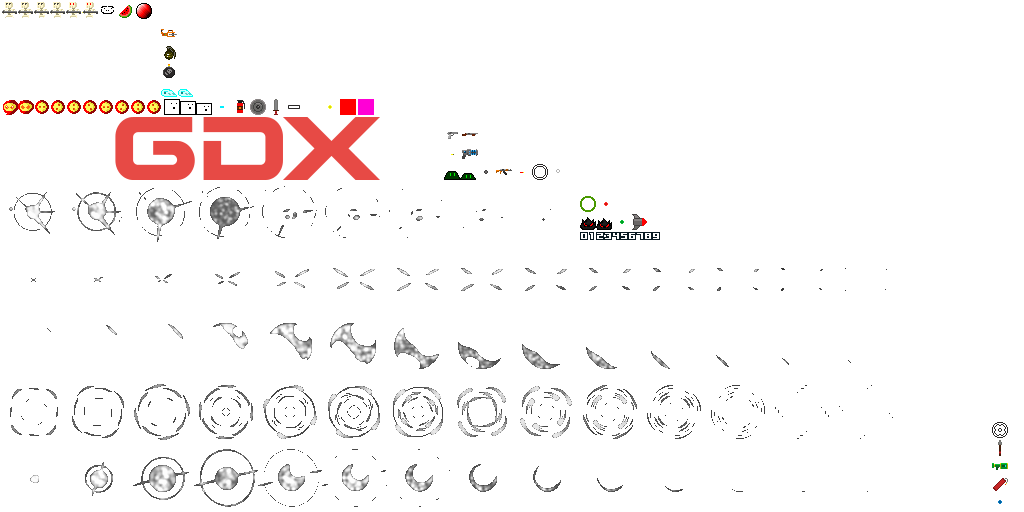
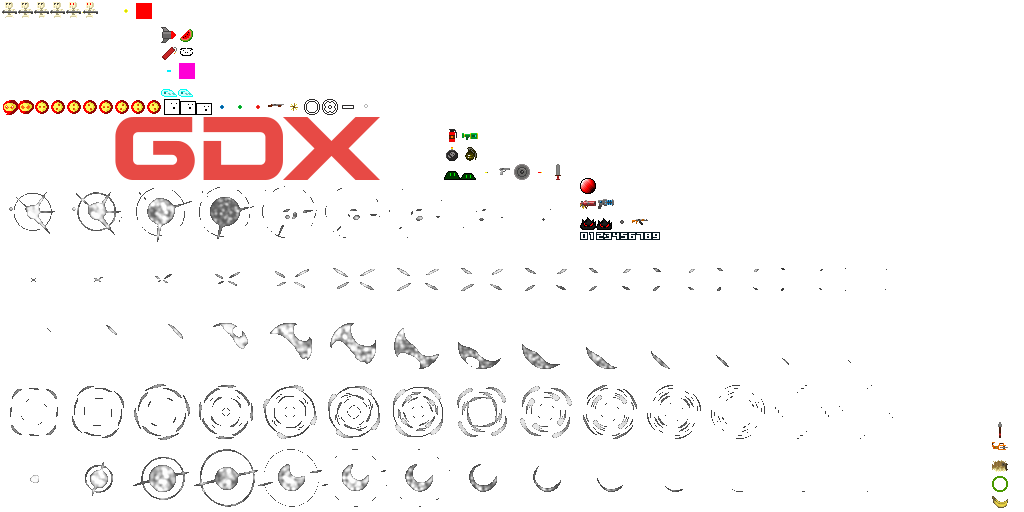
Nuevas armas boomerang (banana) y de veneno (pez globo). Ya funciona el veneno.

diff --git a/core/src/main/java/com/tikisadventure/combat/StatusManager.java b/core/src/main/java/com/tikisadventure/combat/StatusManager.java
@@ -9,11 +9,25 @@ public class StatusManager {
 
     public void update(Entity target, float delta) {
         for (int i = activeStatuses.size - 1; i >= 0; i--) {
+            // Por seguridad, si algo vació la lista de golpe, saltamos
+            if (i >= activeStatuses.size) continue;
+
             StatusEffect effect = activeStatuses.get(i);
             effect.tick(target, delta);
+
+            // --- PROTECCIÓN CONTRA CRASHEOS ---
+            // Si el enemigo ha muerto por culpa del daño que le acaba de hacer el tick(),
+            // rompemos el bucle inmediatamente porque la entidad ya no es válida.
+            if (!target.isAlive()) {
+                break;
+            }
+
             if (effect.isExpired()) {
                 effect.onRemove(target);
-                activeStatuses.removeIndex(i);
+                // Segunda capa de seguridad al borrar
+                if (i < activeStatuses.size) {
+                    activeStatuses.removeIndex(i);
+                }
             }
         }
     }
@@ -21,11 +35,27 @@ public class StatusManager {
     public void addStatus(StatusEffect effect, Entity target) {
         for (StatusEffect existing : activeStatuses) {
             if (existing.getType() == effect.getType()) {
+                existing.refreshDuration();
                 return;
             }
         }
+
         effect.onApply(target);
         activeStatuses.add(effect);
+    }
+
+    public boolean hasStatus(StatusType type) {
+        for (StatusEffect effect : activeStatuses) {
+            if (effect.getType() == type) return true;
+        }
+        return false;
+    }
+
+    public StatusEffect getStatus(StatusType type) {
+        for (StatusEffect effect : activeStatuses) {
+            if (effect.getType() == type) return effect;
+        }
+        return null;
     }
 
     public void dispose() {

diff --git a/core/src/main/java/com/tikisadventure/combat/weapons/Weapon.java b/core/src/main/java/com/tikisadventure/combat/weapons/Weapon.java
@@ -89,6 +89,7 @@ public class Weapon {
     protected float returnDelayTimer = 0f;
 
     public int activeBoomerangs = 0;
+    protected boolean fixedSpread = false;
 
     // Añade sus getters y setters
     public int getTier() {
@@ -144,6 +145,7 @@ public class Weapon {
         this.pivotX = x;
         this.pivotY = y;
     }
+    public void setFixedSpread(boolean fixedSpread) { this.fixedSpread = fixedSpread; }
 
     // Getters
     public float getDamage() { return damage; }
@@ -362,9 +364,16 @@ public class Weapon {
         } else {
             for (int i = 0; i < projectileCount; i++) {
                 float angle = baseAngle;
+
                 if (projectileCount > 1) {
-                    angle += MathUtils.random(-spread / 2f, spread / 2f);
+                    if (this.fixedSpread) {
+                        float spreadStep = spread / (projectileCount - 1);
+                        angle += -(spread / 2f) + (i * spreadStep);
+                    } else {
+                        angle += MathUtils.random(-spread / 2f, spread / 2f);
+                    }
                 }
+
                 if (imprecision > 0) {
                     angle += MathUtils.random(-imprecision, imprecision);
                 }
@@ -395,7 +404,9 @@ public class Weapon {
     }
 
     public void render(Batch batch) {
+
         if (sprite == null) return;
+        if (activeBoomerangs > 0) return;
 
         float width = 1.2f;
         float height = 1.2f;

diff --git a/core/src/main/java/com/tikisadventure/combat/statuses/PoisonStatus.java b/core/src/main/java/com/tikisadventure/combat/statuses/PoisonStatus.java
@@ -29,7 +29,19 @@ public class PoisonStatus implements StatusEffect {
         tickTimer += delta;
 
         if (tickTimer >= interval) {
-            target.receiveDamage(damagePerTick, false, DamageType.POISON);
+            float finalDamage = damagePerTick;
+
+            // --- LÓGICA DE EJECUCIÓN (Más daño cuanta menos vida) ---
+            if (target.getHealthComponent() != null && target.getHealthComponent().maxHealth > 0) {
+                float hpPercent = target.getHealthComponent().currentHealth / target.getHealthComponent().maxHealth;
+
+                // Si la vida está al 100% (1.0), multiplier es 1x
+                // Si la vida está al 10% (0.1), multiplier es 1.9x
+                float executionMultiplier = 1.0f + (1.0f - hpPercent);
+                finalDamage *= executionMultiplier;
+            }
+
+            target.receiveDamage(finalDamage, false, DamageType.POISON);
             tickTimer = 0;
         }
     }
@@ -55,6 +67,12 @@ public class PoisonStatus implements StatusEffect {
     @Override
     public StatusType getType() {
         return StatusType.POISONED;
+    }
+
+    @Override
+    public void refreshDuration() {
+        this.elapsedTime = 0; // Reinicia el tiempo total del veneno
+        this.tickTimer = 0;   // Reinicia el contador del siguiente tic de daño
     }
 
     @Override

diff --git a/core/src/main/java/com/tikisadventure/combat/weapons/WeaponFactory.java b/core/src/main/java/com/tikisadventure/combat/weapons/WeaponFactory.java
@@ -189,6 +189,7 @@ public class WeaponFactory {
         weapon.setImpactKnockback(weaponJson.getFloat("impactKnockback", 0f));
         weapon.setProjectileCount(weaponJson.getInt("count", 1));
         weapon.setSpread(weaponJson.getFloat("spread", 0.0f));
+        weapon.setFixedSpread(weaponJson.getBoolean("fixedSpread", false));
         weapon.setSpreadDelay(weaponJson.getFloat("spreadDelay", 0.0f));
         weapon.setGrowthRate(weaponJson.getFloat("growthRate", 0.0f));
         weapon.setMaxRadius(weaponJson.getFloat("maxRadius", Float.MAX_VALUE));
@@ -271,7 +272,13 @@ public class WeaponFactory {
                     ));
                 } else if (type.equals("randomSprite")) {
                     weapon.addModifier(new RandomSpriteModifier(mod.get("sprites")));
+                } else if (type.equals("boomerang")) {
+                    weapon.addModifier(new com.tikisadventure.combat.weapons.modifiers.BoomerangModifier(
+                        weapon,
+                        mod.getFloat("maxDistance", 12.0f)
+                    ));
                 }
+
             }
         }
 

diff --git a/core/src/main/java/com/tikisadventure/systems/PowerUpSystem.java b/core/src/main/java/com/tikisadventure/systems/PowerUpSystem.java
@@ -46,8 +46,9 @@ public class PowerUpSystem {
         weaponPool.add(new NewWeaponPowerUp("AK-47", "Fusil de asalto rápido", PowerUp.Rarity.COMUN, "MetralletaEjemplo", this.weaponFactory));
         weaponPool.add(new NewWeaponPowerUp("Fire Shotgun", "Disparo de perdigones", PowerUp.Rarity.COMUN, "EscopetaEjemplo", this.weaponFactory));
         weaponPool.add(new NewWeaponPowerUp("Plasmaneitor", "Rifle de energía láser", PowerUp.Rarity.RARO, "ArmaEnergiaEjemplo", this.weaponFactory));
-        weaponPool.add(new NewWeaponPowerUp("Lanzallamas", "Quema a los enemigos", PowerUp.Rarity.EPICO, "Lanzallamas", this.weaponFactory));
+        weaponPool.add(new NewWeaponPowerUp("Extintor trucado", "Hace lo inverso a un extintor normal", PowerUp.Rarity.EPICO, "Lanzallamas", this.weaponFactory));
         weaponPool.add(new NewWeaponPowerUp("Sawneitor", "Lanza sierras en zig-zag", PowerUp.Rarity.EPICO, "LanzaSierras", this.weaponFactory));
+        weaponPool.add(new NewWeaponPowerUp("Banana", "Gran fuente de potasio", PowerUp.Rarity.RARO, "Banana", this.weaponFactory));
 
     }
 

diff --git a/core/src/main/java/com/tikisadventure/components/PoisonComponent.java b/core/src/main/java/com/tikisadventure/components/PoisonComponent.java
@@ -24,7 +24,7 @@ public class PoisonComponent implements Component {
 
     @Override
     public void onHit(Entity target) {
-        target.getStatusManager().addStatus(new PoisonStatus(effectManager, duration, damagePerTick, interval), target);
+        target.getStatusManager().addStatus(new PoisonStatus(effectManager, damagePerTick, interval, duration), target);
     }
 
     @Override

diff --git a/core/src/main/java/com/tikisadventure/components/BurningComponent.java b/core/src/main/java/com/tikisadventure/components/BurningComponent.java
@@ -24,6 +24,7 @@ public class BurningComponent implements Component {
 
     @Override
     public void onHit(Entity target) {
+        // --- CORREGIDO: Ahora aplica fuego y en el orden correcto ---
         target.getStatusManager().addStatus(new BurningStatus(effectManager, duration, damagePerTick, interval), target);
     }
 

diff --git a/core/src/main/java/com/tikisadventure/combat/statuses/StatusEffect.java b/core/src/main/java/com/tikisadventure/combat/statuses/StatusEffect.java
@@ -9,5 +9,9 @@ public interface StatusEffect {
     void onApply(Entity target);
     void onRemove(Entity target);
     StatusType getType();
+
+    // Obliga a todos los estados a tener una forma de reiniciar su tiempo
+    void refreshDuration();
+
     default void dispose() {}
 }

diff --git a/core/src/main/java/com/tikisadventure/combat/statuses/BurningStatus.java b/core/src/main/java/com/tikisadventure/combat/statuses/BurningStatus.java
@@ -58,6 +58,12 @@ public class BurningStatus implements StatusEffect {
     }
 
     @Override
+    public void refreshDuration() {
+        this.elapsedTime = 0;
+        this.tickTimer = 0;
+    }
+
+    @Override
     public void dispose() {
         effectManager = null;
     }
